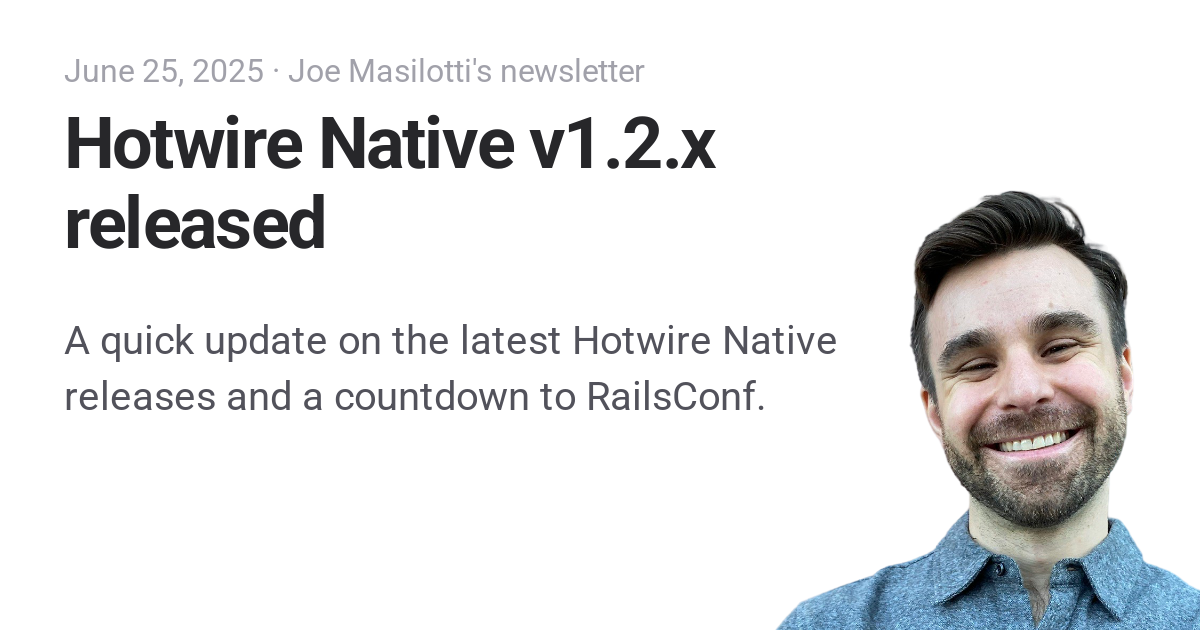
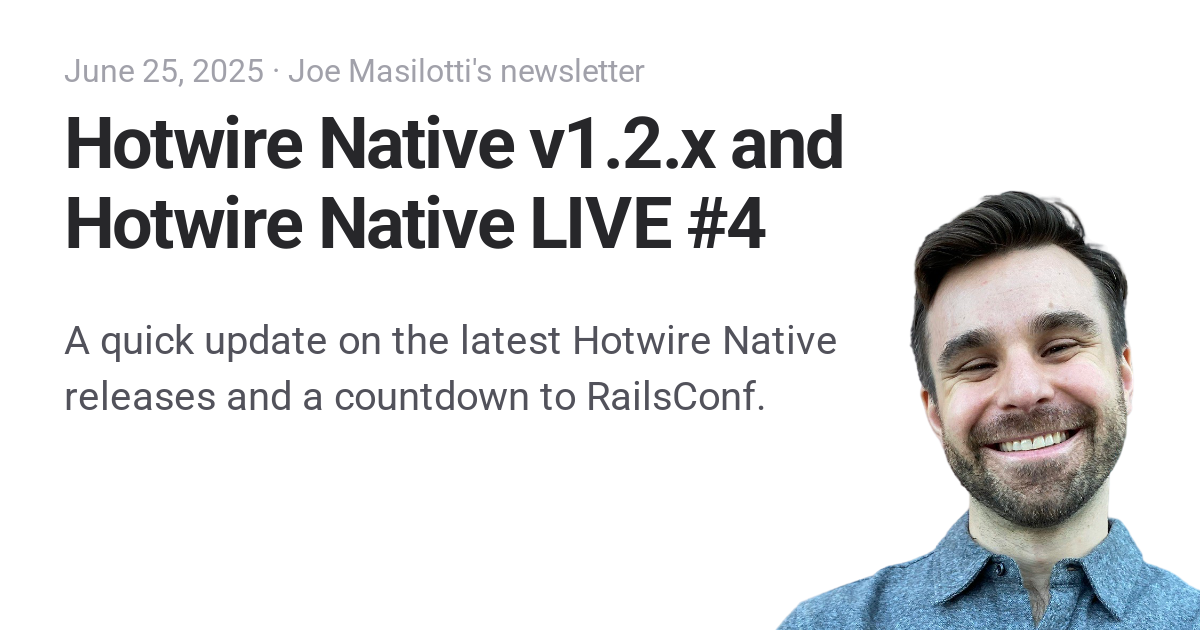
Tweak title

Changed region(s): [[0.0308, 0.3016, 0.6475, 0.3921], [0.5858, 0.181, 0.7092, 0.2714]]

diff --git a/_posts/newsletter/2025-06-25-hotwire-native-v1.2.x.md b/_posts/newsletter/2025-06-25-hotwire-native-v1.2.x.md
@@ -1,5 +1,5 @@
 ---
-title: "Hotwire Native v1.2.x released"
+title: "Hotwire Native v1.2.x and Hotwire Native LIVE #4"
 date: 2025-06-25
 description: "A quick update on the latest Hotwire Native releases and a countdown to RailsConf."
 ---
